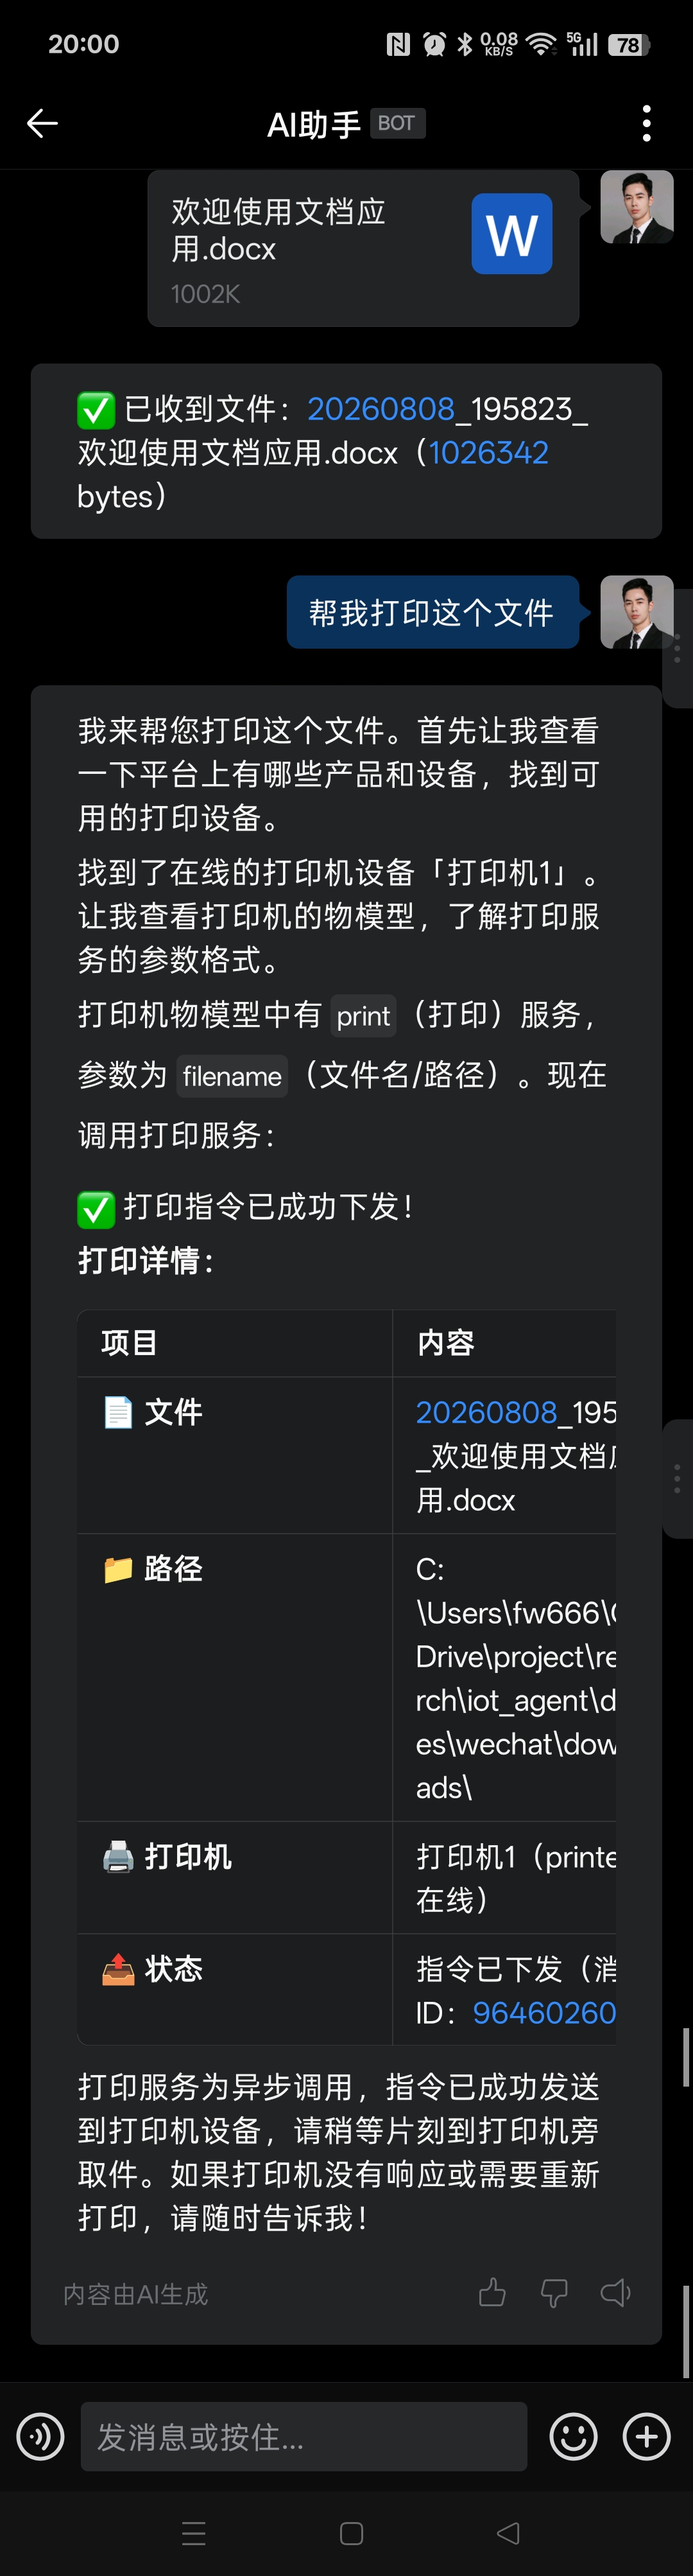
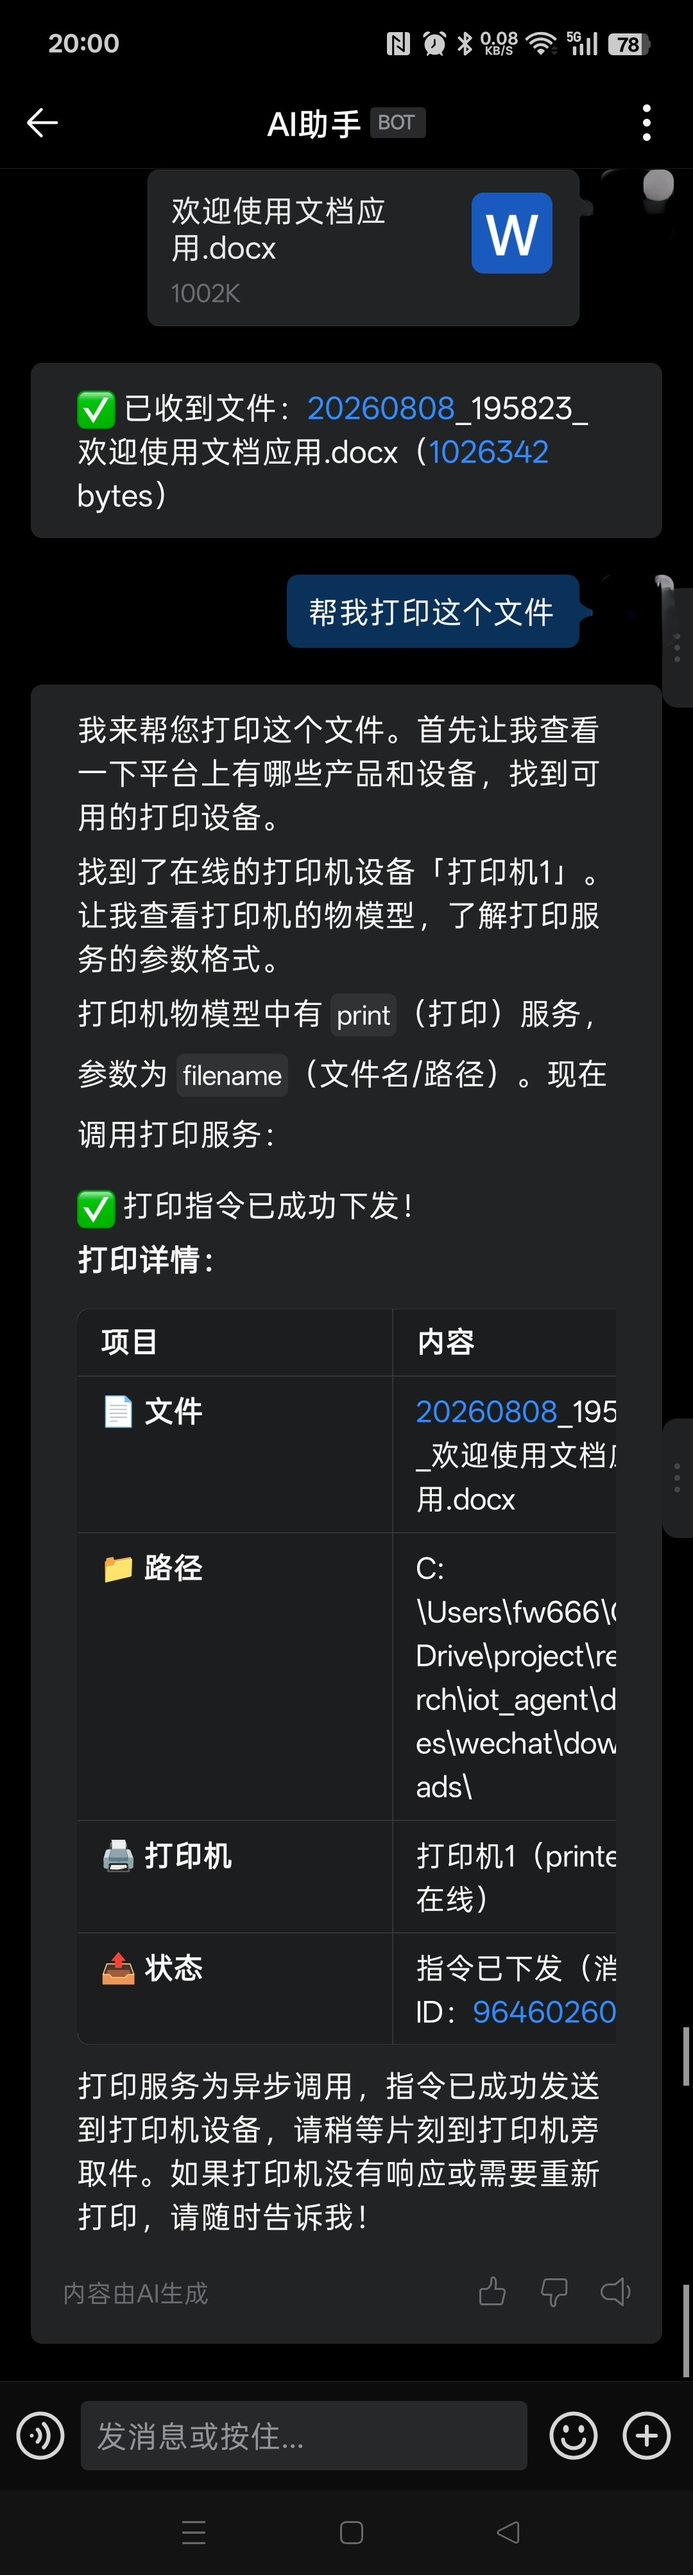
1

diff --git a/doc/blog.md b/doc/blog.md
@@ -1,0 +1,136 @@
+# 一句话,点亮一台设备:IoT Agent 让物联网平台「开口说人话」
+
+> 「帮我在物联网平台上建一个打印机产品,把这台打印机接上去,再让它在每周四下午提醒大家交周报。」——如果你以为这需要翻半天 API 文档、写几百行代码,那你还没见过 IoT Agent。
+
+![Python](https://img.shields.io/badge/Python-3.10+-blue)
+![Flask](https://img.shields.io/badge/Flask-3.x-black)
+![LangChain](https://img.shields.io/badge/LangChain-1.3-1c3c3c)
+![MCP](https://img.shields.io/badge/MCP-FastMCP-orange)
+![License](https://img.shields.io/badge/License-MIT-green)
+
+---
+
+## 痛点:物联网平台很强,但门槛也很高
+
+物联网平台的能力早已齐备:物模型、设备接入、规则引擎、数据可视化……但对大多数人来说,用好它仍然意味着:
+
+- **建产品、建设备、定义物模型**,要在控制台里层层点选,属性、服务一项项配置;
+- **接入一台真实设备**,需要理解三元组、MQTT 主题、物模型 JSON,再写一段设备端代码;
+- **查个属性、下个指令**,得先弄清平台 API 的鉴权、参数和返回结构;
+- **想要联动和看板**,还得再学一套规则引擎或前端开发。
+
+这些门槛把「能用」和「好用」隔开了一整支开发团队的距离。**IoT Agent 要做的,就是把这段距离压缩成一句话。**
+
+## IoT Agent 是什么
+
+IoT Agent 是一个基于大语言模型的物联网平台智能助手。它以阿里云物联网平台为底座,用 LangChain Agent 封装了一整套平台操作工具,让你通过自然语言对话,就能走完物联网业务的**全链路**:
+
+**建产品/设备 → 接入设备 → 查询与控制 → 自动化编排 → 可视化仪表盘**
+
+无需了解平台 API,无需手写一行代码。
+
+## 五步走完全链路,每步都只是一句话
+
+### 第 1 步 · 创建产品和设备
+
+「帮我创建一个打印机产品和设备,带打印和状态两个功能。」助手会先核对是否已有同名产品,再依次完成建产品、建设备、定义物模型属性与服务——控制台上立刻可见新增设备。
+
+![创建产品和设备-对话](doc/imgs/对话_创建产品和设备.png)
+
+### 第 2 步 · 接入设备
+
+告诉助手把某台设备接入平台,它会依据设备三元组与物模型,**自动生成并运行设备端 MQTT 接入代码**:属性按物模型周期上报,服务可被云端调用。几句话之后,设备真实在线,平台开始收到数据。
+
+![接入设备到云平台-对话](doc/imgs/对话_接入设备到物联网云平台.png)
+
+![接入后平台显示设备数据](doc/imgs/接入后物联网平台显示设备数据.png)
+
+### 第 3 步 · 查询与控制
+
+「打印机现在什么状态?」「让它打印这份文件。」属性读取、属性下发、服务调用,全部通过对话完成。
+
+![询问设备属性和控制设备](doc/imgs/询问设备属性和控制设备.png)
+
+### 第 4 步 · 自动化编排
+
+用自然语言描述联动规则,助手生成 **Node-RED 自动化流程**并即时生效——「每周四下午让机器人在群里提醒交周报」「员工离开工位自动锁屏」,这类办公自动化一句话就能落地。
+
+![创建自动化流程-对话](doc/imgs/对话_创建自动化流程.png)
+
+![创建的自动化流程](doc/imgs/创建的自动化流程.png)
+
+### 第 5 步 · 可视化仪表盘
+
+「给我做一个打印机监控大屏。」助手生成科技风 HTML 仪表盘,实时拉取设备属性、支持直接下发控制,在仪表盘列表中即可访问。
+
+![创建仪表盘-对话](doc/imgs/对话_创建仪表盘.png)
+
+![仪表盘](doc/imgs/仪表盘.png)
+
+## 端到端闭环:在企业微信里说一句话,打印机就动了
+
+最能体现价值的场景是这条完整链路:
+
+**企业微信对话 → 物联网平台 → 打印机服务 → 本机 PDF 打印**
+
+员工在 IM 里发一句「打印这个文件」,指令经平台调用「打印机」设备的服务,真实打印机随即开始工作——不登录任何系统,不打开任何控制台。
+
+![企业微信对话调用文件打印](doc/imgs/企业微信对话调用文件打印.jpg)
+
+![pdf打印机被调用](doc/imgs/pdf打印机被调用.png)
+
+## 架构:一套工具,三种协议,多处复用
+
+```mermaid
+flowchart LR
+    U["用户 / 浏览器<br/>企业微信"] --> AS["agent_server<br/>对话 :8100"]
+    AS --> AG["LangChain Agent"]
+    AG --> T["工具集<br/>ali_iot_tools"]
+    T --> ALI[("阿里云物联网平台")]
+    T --> CC["Claude Code CLI<br/>生成设备接入代码"]
+    DASH["生成的仪表盘"] --> API["api_server<br/>REST :8102"]
+    NR["Node-RED<br/>自动化 :1880"] --> API
+    API --> T
+    MCP["mcp_server<br/>MCP :8101"] --> T
+    EXT["外部 AI 客户端<br/>Dify 等"] --> MCP
+```
+
+几个值得一提的设计:
+
+- **一套工具三种出口**:同一套阿里云平台工具(`services/ali_iot_tools.py`),同时以**对话流式(:8100)/ REST API(:8102)/ MCP(:8101)**三种形式对外提供。网页对话、仪表盘回调、Node-RED 联动、Dify 等外部 AI 客户端,用的是同一份实现,不重复造轮子。
+- **Agent + 工具调用**:核心是一个 LangChain Agent,按需调用 `createProduct`、`setProperty`、`invokeService` 等十余个平台工具,每次调用的名称、入参、结果都在网页上实时可见——AI 做了什么,一目了然。
+- **AI 生成 AI 的代码**:设备接入代码由 Claude Code CLI 依据物模型自主生成,新增一种设备,不需要人工维护接入模板。
+- **SSE 流式体验**:Flask + SSE 让助手的回答逐字呈现,长任务不再对着空白页面干等。
+
+## 谁适合用它
+
+| 用户 | 价值 |
+| --- | --- |
+| 物联网平台运营/运维人员 | 不写代码、不查 API 文档,一句话完成设备开通、指令下发、流程编排、大屏开发 |
+| 应用集成开发者 | 仪表盘与自动化流程由助手生成,直接在业务系统中复用;MCP 协议随时接入 Dify 等平台 |
+| 非技术终端用户 | 在企业微信等 IM 中自然对话即可触发设备动作,零学习成本 |
+
+办公自动化、智能制造、监控运维、智慧家居——只要设备能接入平台,IoT Agent 就能把专业操作翻译成「人话」。
+
+## 快速上手
+
+```bash
+git clone https://github.com/<your-account>/iot_agent.git
+cd iot_agent
+pip install -r requirements.txt
+cp .env.example .env   # 填入 LLM 与阿里云平台配置
+
+python agent_server.py # 打开 http://127.0.0.1:8100,开始对话
+```
+
+> 安全提示:阿里云 AccessKey 建议使用 RAM 子账号并仅授予 `AliyunIOTFullAccess` 最小权限;`.env` 已在 `.gitignore` 中,切勿提交真实凭据。
+
+## 写在最后
+
+物联网的终点不是「设备上线」,而是「人人都能指挥设备」。IoT Agent 用大模型抹平了平台能力与普通使用者之间的鸿沟——**让会用微信的人,就能用物联网。**
+
+项目基于 MIT 协议开源,欢迎 Star、Fork、提 Issue,也欢迎带着你的设备场景来一起折腾。
+
+---
+
+🔗 更多图文说明见 [`使用说明.md`](使用说明.md),项目详情见 [`README.md`](../README.md)。

diff --git a/使用说明.md b/使用说明.md
@@ -1,0 +1,93 @@
+# IoT Agent · 物联网智能助手 使用说明
+
+> 一个基于大语言模型的物联网平台智能助手。用自然语言对话即可完成「建产品/设备 -> 接入设备 -> 查询与控制 -> 自动化编排 -> 可视化仪表盘」的全链路操作，无需了解平台 API，也无需手写代码。
+
+## url
+agent:  http://106.53.211.236:8100
+
+仪表盘列表: http://106.53.211.236:8100/dashboard
+
+自动化流程: http://106.53.211.236:1880
+
+物联网平台: https://iot.console.aliyun.com    #公共实例
+
+---
+
+## 一、目标用户
+
+| 用户 | 价值                                                       |
+| --- |----------------------------------------------------------|
+| **物联网平台运营 / 运维人员** | 不写代码、不查 API 文档，用一句话完成设备开通、属性下发、服务调用、设备接入、自动化流程设置、监控大屏开发。 |
+| **应用集成开发者** | 仪表盘与自动化流程由助手生成，可直接在业务系统中复用。                              |
+| **非技术终端用户** | 在企业微信等 IM 中以自然对话触发设备动作（如打印）。                             |
+
+---
+
+## 二、使用场景
+
+- **办公自动化**：打印机、企业微信机器人等办公设备接入平台后，员工在企业微信中一句话即可触发打印、发送通知等动作，无需登录各设备系统，提升日常办公效率。可以一句话创建自动化工作流程,如周四用机器人在群里提醒发周报,员工离开工位忘记锁屏自动锁屏 
+- **智能制造自动化**：产线传感器、执行器等设备统一接入，用自然语言查询运行状态、下发控制指令，并通过自动化流程编排设备联动，降低产线运维门槛。
+- **监控运维**：运维人员用对话快速查询设备在线状态与属性、定位异常，并通过仪表盘集中监控多设备指标，故障时即时下发服务调用完成处置。
+- **智慧家居**：家用电脑、手机等设备接入后，一句话完成锁屏、开启远程软件、控制闪光灯、读取电量与 WiFi，实现跨设备的统一文字/语音控制。
+
+---
+
+## 三、操作步骤
+
+> 打开对话界面，按「创建 -> 接入 -> 查询控制 -> 自动化 -> 仪表盘 -> 端到端」的顺序，即可完成从设备开通到业务闭环的全流程。截图均位于 `doc/imgs/`。
+
+### 步骤 1 · 创建产品和设备
+
+用一句话创建产品、设备并定义物模型。助手会先核对是否已有同名产品，再依次完成建产品、建设备、添加属性 / 服务。
+
+![创建产品和设备-对话](doc/imgs/对话_创建产品和设备.png)
+
+创建完成后，在物联网平台控制台可见新增的设备：
+
+![物联网云平台新增设备](doc/imgs/物联网云平台新增设备.png)
+
+### 步骤 2 · 接入设备到物联网云平台
+
+告诉助手把某台设备接入平台，助手依据该设备三元组与物模型，生成并运行设备端接入代码（属性按物模型周期上报、服务可被云平台调用），使设备真正在线。//由于该操作权限较大风险较高,公网版只输出接入代码
+
+![接入设备到云平台-对话](doc/imgs/对话_接入设备到物联网云平台.png)
+
+接入成功后，物联网平台开始显示设备上报的真实数据：
+
+![接入后平台显示设备数据](doc/imgs/接入后物联网平台显示设备数据.png)
+
+### 步骤 3 · 询问设备属性和控制设备
+
+设备在线后，直接用自然语言查询属性或下发控制指令，助手完成属性读取、属性下发与服务调用。
+
+![询问设备属性和控制设备](doc/imgs/询问设备属性和控制设备.png)
+
+### 步骤 4 · 创建自动化流程
+
+用自然语言描述联动规则，助手生成自动化流程并使其即时生效，流程内回调平台工具实现设备联动。
+
+![创建自动化流程-对话](doc/imgs/对话_创建自动化流程.png)
+
+生成的自动化流程：
+
+![创建的自动化流程](doc/imgs/创建的自动化流程.png)
+
+### 步骤 5 · 创建仪表盘
+
+描述想要的看板，助手生成科技风 HTML 仪表盘，在仪表盘列表中即可访问，实时展示与控制设备。
+
+![创建仪表盘-对话](doc/imgs/对话_创建仪表盘.png)
+
+生成的仪表盘页面：
+
+![仪表盘](doc/imgs/仪表盘.png)
+
+### 步骤 6 · 端到端：企业微信对话触发打印
+
+在企业微信中对话下发指令，经由平台调用「打印机」设备的打印服务，最终触发本机 PDF 打印机完成打印，验证「IM 入口 -> 平台 -> 设备动作」的完整闭环。
+
+![企业微信对话调用文件打印](doc/imgs/企业微信对话调用文件打印.jpg)
+
+PDF 打印机被调用：
+
+![pdf打印机被调用](doc/imgs/pdf打印机被调用.png)

diff --git a/doc/使用说明.md b/doc/使用说明.md
@@ -2,6 +2,15 @@
 
 > 一个基于大语言模型的物联网平台智能助手。用自然语言对话即可完成「建产品/设备 -> 接入设备 -> 查询与控制 -> 自动化编排 -> 可视化仪表盘」的全链路操作，无需了解平台 API，也无需手写代码。
 
+## url
+agent:  http://106.53.211.236:8100
+
+仪表盘列表: http://106.53.211.236:8100/dashboard
+
+自动化流程: http://106.53.211.236:1880
+
+物联网平台: https://iot.console.aliyun.com    #公共实例
+
 ---
 
 ## 一、目标用户
